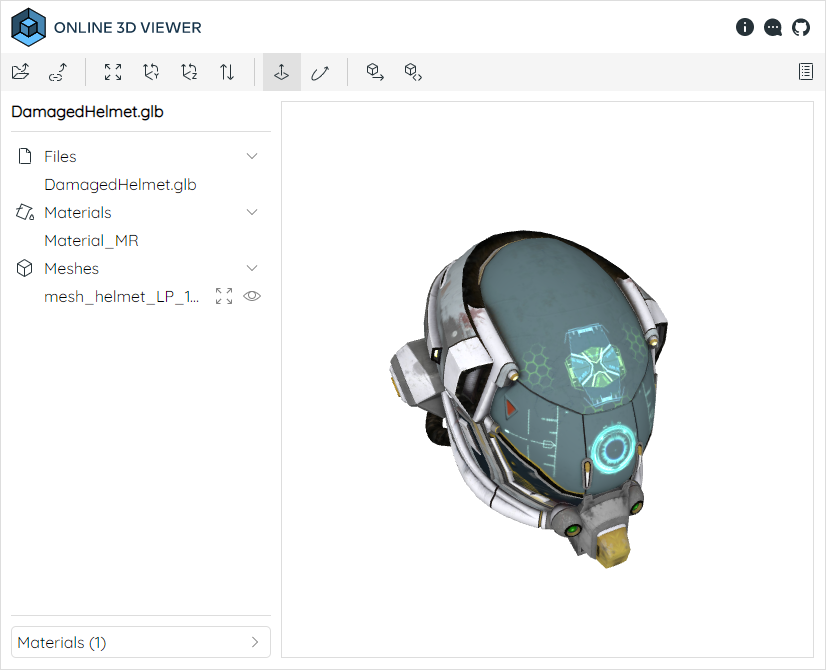
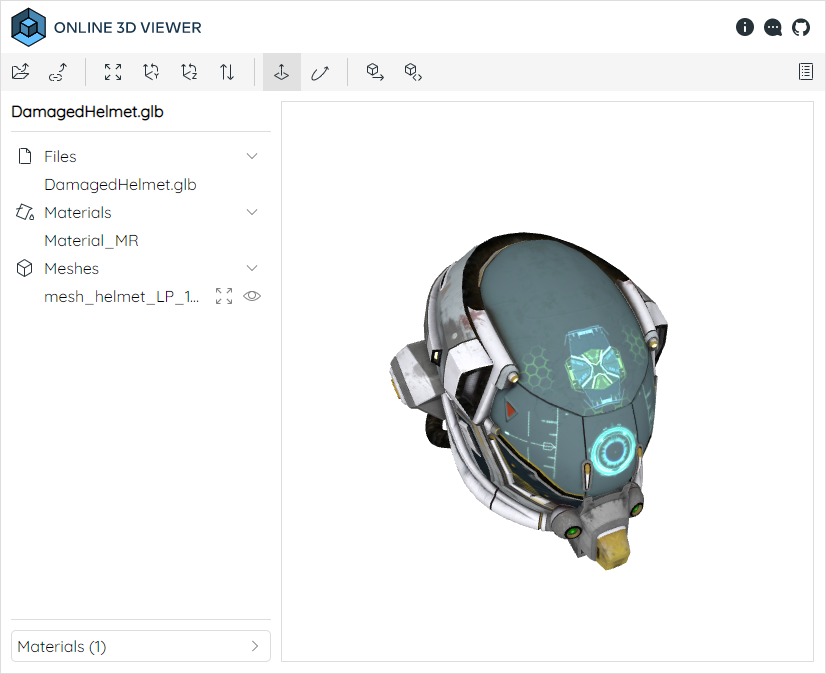
Remove unnecessary resize during load.

diff --git a/website/o3dv/website.js b/website/o3dv/website.js
@@ -21,6 +21,7 @@ OV.Website = class
 
     Load ()
     {
+
         let canvas = $('<canvas>').appendTo (this.parameters.viewerDiv);
         this.viewer.Init (canvas.get (0));
         this.ShowViewer (false);
@@ -63,6 +64,7 @@ OV.Website = class
         
         let contentWidth = windowWidth - navigatorWidth - sidebarWidth - safetyMargin;
         let contentHeight = windowHeight - headerHeight - safetyMargin;
+        
         this.parameters.navigatorDiv.outerHeight (contentHeight, true);
         this.parameters.sidebarDiv.outerHeight (contentHeight, true);
         this.parameters.introDiv.outerHeight (contentHeight, true);
@@ -85,7 +87,6 @@ OV.Website = class
     {
         this.sidebar.Show (show);
         this.cookieHandler.SetBoolVal ('ov_show_sidebar', show);
-        this.Resize ();
     }
 
     ClearModel ()
@@ -332,6 +333,7 @@ OV.Website = class
         }
         AddRightButton (this.toolbar, 'details', 'Details panel', true, function () {
             obj.ShowSidebar (!obj.sidebar.IsVisible ());
+            obj.Resize ();
         });
         
         this.parameters.fileInput.on ('change', function (ev) {
@@ -388,6 +390,7 @@ OV.Website = class
         this.sidebar.Init ({
             onClose : function () {
                 obj.ShowSidebar (false);
+                obj.Resize ();
             }
         });
         let show = this.cookieHandler.GetBoolVal ('ov_show_sidebar', true);
